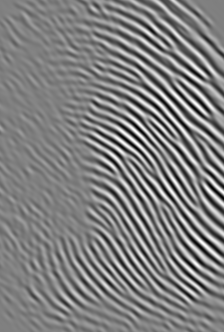
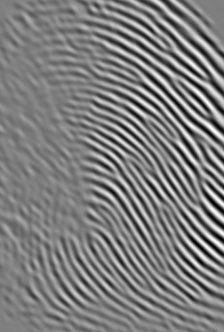
Added AAD map calculation and visualization

diff --git a/main.py b/main.py
@@ -131,6 +131,41 @@ class ConvolutionProcessor:
 
         return result
 
+    @staticmethod
+    def compute_aad_map(image_array: np.ndarray, block_size: int) -> np.ndarray:
+        """
+        Splits the image into non-overlapping square blocks of size block_size x block_size.
+        For each block, computes the Absolute Average Deviation (AAD) from the mean.
+        Returns a 2D 'AAD map' of shape (n_blocks_y, n_blocks_x),
+        where each element corresponds to the AAD of one block.
+        """
+        if image_array.ndim != 2:
+            raise ValueError("compute_aad_map expects a 2D grayscale image.")
+
+        height, width = image_array.shape
+        n_blocks_y = height // block_size
+        n_blocks_x = width // block_size
+
+        # Create an empty 2D array to store the AAD of each block
+        aad_map = np.zeros((n_blocks_y, n_blocks_x), dtype=np.float32)
+
+        # Loop over blocks
+        for by in range(n_blocks_y):
+            for bx in range(n_blocks_x):
+                start_y = by * block_size
+                end_y = start_y + block_size
+                start_x = bx * block_size
+                end_x = start_x + block_size
+
+                block = image_array[start_y:end_y, start_x:end_x]
+                mean_val = np.mean(block)
+                # AAD = average of absolute deviations from mean
+                aad_val = np.mean(np.abs(block - mean_val))
+
+                aad_map[by, bx] = aad_val
+
+        return aad_map
+
 class ImageFilter:
     """Class for different image filtering operations."""
 
@@ -167,31 +202,64 @@ class Visualizer:
             theta_vector: np.ndarray,
             filepath_to_save: str = None
     ) -> None:
-        """ Visualize Gabor filtering results. """
-        # Calculate optimal grid layout
-        num_filters = len(gabor_results)
-        grid_cols = min(3, num_filters + 1)
-        grid_rows = int(np.ceil((num_filters + 1) / grid_cols))
+        """ Visualize Gabor filtering results with 3 rows. """
+        plt.figure(figsize=(20, 15))
 
-        plt.figure(figsize=(20, 5 * grid_rows))
-
-        # Original image
-        plt.subplot(grid_rows, grid_cols, 1)
-        plt.title('Normalized Original Image', fontsize=12)
+        # First row - only original image
+        plt.subplot(3, 4, (1, 4))
         plt.imshow(original_image, cmap='gray')
+        plt.title('Original Fingerprint', fontsize=25, pad=10)
         plt.axis('off')
 
-        # Filtered images
-        for i, (filtered_img, theta) in enumerate(zip(
-                gabor_results,
-                theta_vector), start=2):
-            plt.subplot(grid_rows, grid_cols, i)
-            plt.title(f'Filtered (θ = {float(theta):.1f}°)', fontsize=10)
-            plt.imshow(filtered_img, cmap='gray')
+        # Second row - first 4 filtered images
+        for i in range(4):
+            plt.subplot(3, 4, 4 + i + 1)
+            plt.imshow(gabor_results[i], cmap='gray')
+            plt.title(f'Filtered (θ = {float(theta_vector[i]):.1f}°)', fontsize=25, pad=10)
+            plt.axis('off')
+
+        # Third row - last 4 filtered images
+        for i in range(4):
+            plt.subplot(3, 4, 8 + i + 1)
+            plt.imshow(gabor_results[i + 4], cmap='gray')
+            plt.title(f'Filtered (θ = {float(theta_vector[i + 4]):.1f}°)', fontsize=25, pad=10)
             plt.axis('off')
 
         plt.tight_layout()
-        plt.suptitle('Gabor Filtering Results', fontsize=16, y=1.02)
+
+        if filepath_to_save is not None:
+            plt.savefig(filepath_to_save, dpi=300, bbox_inches='tight')
+        plt.show()
+
+
+    @staticmethod
+    def show_aad_maps_grid(
+            aad_maps: list,
+            titles=None,
+            filepath_to_save: str = None
+    ) -> None:
+        """
+        Displays a list of 8 AAD maps in a 2x4 grid on a black background,
+        with a shared grayscale colorbar for consistent contrast.
+        """
+        if len(aad_maps) != 8:
+            raise ValueError("Expected exactly 8 AAD maps for a 2×4 grid.")
+
+        fig, axes = plt.subplots(2, 4, figsize=(10, 5))
+        fig.patch.set_facecolor('white')  # Full black background
+        axes = axes.ravel()
+
+        for i, ax in enumerate(axes):
+            ax.set_facecolor('black')  # Black frame background
+            ax.imshow(aad_maps[i], cmap='gray', aspect='auto')  # Show image in grayscale
+            ax.set_xticks([])  # Remove x-axis ticks
+            ax.set_yticks([])  # Remove y-axis ticks
+            ax.set_frame_on(True)  # Ensure there's a black border
+
+            if titles and i < len(titles):
+                ax.set_title(titles[i], fontsize=12, color='black', pad=6)
+
+        plt.subplots_adjust(wspace=0.5, hspace=0.5)  # Adjust spacing for exact look
 
         if filepath_to_save is not None:
             plt.savefig(filepath_to_save, dpi=300, bbox_inches='tight')
@@ -202,7 +270,7 @@ def main():
     base_path = r'Images'
 
     image_array = ImageUtils.load_image(
-        filepath=os.path.join(base_path, '104_3.tif')
+        filepath=os.path.join(base_path, 'original_image.tif')
     )
     print(50 * "-","\nImage Array:\n", image_array)
 
@@ -226,7 +294,7 @@ def main():
         ImageFilter.create_gabor_kernel(
             size = 33,
             theta = theta_vector[i],
-            f = 0.125,
+            f = 0.100,
             sigma_x = 4,
             sigma_y = 4,
         ) for i in range(8)
@@ -254,6 +322,26 @@ def main():
         ImageUtils.save_image(
             image_array=filtered_images[i],
             filepath=os.path.join(base_path, 'Filtered Images', f"{theta_vector_deg[i]:.1f}.png"),
+            normalize=True
+        )
+
+    block_size = 16
+    aad_maps = [ConvolutionProcessor.compute_aad_map(img, block_size=block_size) for img in filtered_images]
+
+    labels = []
+    for i in range(8):
+        labels.append(f"Theta={theta_vector_deg[i]:0.1f}")
+    Visualizer.show_aad_maps_grid(
+        aad_maps,
+        titles=labels,
+        filepath_to_save=os.path.join(base_path,'AAD_MAP_visualization.png')
+    )
+
+    os.makedirs(os.path.join(base_path, 'AAD MAP Images'), exist_ok=True)
+    for i in range(8):
+        ImageUtils.save_image(
+            image_array=aad_maps[i],
+            filepath=os.path.join(base_path, 'AAD MAP Images', f"{theta_vector_deg[i]:.1f}.png"),
             normalize=True
         )
 
